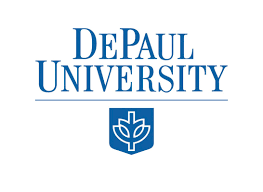
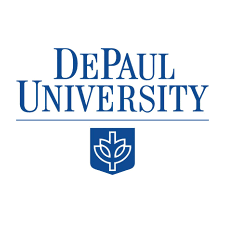
add images to aboutMe

Changed region(s): [[0.0622, 0.125, 0.9333, 0.8125]]

diff --git a/src/components/AboutMe.jsx b/src/components/AboutMe.jsx
@@ -1,4 +1,5 @@
 import React from 'react';
+import { Link } from 'react-router-dom';
 import '../css/aboutMe.css';
 import AksharDave from '../img/AksharDave.jpg';
 import MeMash from '../img/MeMash.png';
@@ -6,6 +7,12 @@ import SriYantra from '../img/SriYantra.png';
 import LAGalaxy from '../img/LAGalaxy.png';
 import Trailblazers from '../img/Trailblazers.png';
 import Aflac from '../img/Aflac.png';
+import Epicodus from '../img/Epicodus.png';
+import DePaul from '../img/depaul.png';
+import WSU from '../img/wsu.png';
+import DATA from '../img/DATAlogo.jpg';
+import CTDHS from '../img/ctdhs.jpg';
+import Editing from '../img/editing.jpg';
 
 
 function AboutMe(){
@@ -28,7 +35,7 @@ function AboutMe(){
 
       <div className='block'>
         <div className='imgWrapperA theoremWrapper'>
-          <p className='theorem'>theorem</p>
+          <a href='https://theoremadvertising.com/' className='theorem'>theorem</a>
           <div className='theoremCompanies'>
             <img className='LAGalaxyImg' src={LAGalaxy}></img>
             <img className='TrailblazersImg' src={Trailblazers}></img>
@@ -46,20 +53,25 @@ function AboutMe(){
       </div>
 
       <div className='block'>
-        <div className='imgWrapperA'>
-        <img className='diamondImg' src={AksharDave}></img>
+        <div className='imgWrapperA schoolsAttended'>
+          <img className='schoolAttended' src={DePaul}></img>
+          <img className='schoolAttended' src={Epicodus}></img>
+          <img className='schoolAttended' src={WSU}></img>
         </div>
         <h3 className='wordContent'>I was trained to program at Epicodus in Portland, Oregon. I hold a Masters in Mathematics Education from DePaul University and a BA in Philosophy from Wayne State University.</h3>
       </div>
 
       <div className='block'>
         <h3 className='wordContent'>Before getting into programming, I taught mathematics, yoga, and film editing for 8 years.</h3>
-        <div className='imgWrapperB'></div>
+        <div className='imgWrapperB schoolsTaught'>
+          <img className='schoolTaught' src={DATA}></img>
+          <img className='schoolTaught' src={CTDHS}></img>
+        </div>
       </div>
 
       <div className='block'>
         <div className='imgWrapperA'>
-        <img className='diamondImg' src={AksharDave}></img>
+          <img className='editing' src={Editing}></img>
         </div>
         <h3 className='wordContent'>Prior to teaching, I was a professional video editor in Chicago for about 7 years.</h3>
       </div>

diff --git a/src/css/aboutMe.css b/src/css/aboutMe.css
@@ -20,6 +20,12 @@
   opacity: 0.05;
 }
 
+.editing{
+  width: 100%;
+  height: 300px;
+  opacity: 0.3;
+}
+
 .imgWrapperA{
   margin-top: 5%;
   background-image: linear-gradient(to left, rgba(255,0,0,0), #262626);
@@ -30,13 +36,7 @@
   background-image: linear-gradient(to right, rgba(255,0,0,0), #262626);
 }
 
-.wordContent{
-  /* margin-top: 20%; */
-  display: flex;
-  justify-content: center;
-  align-items: center;
-  
-}
+
 
 .mathImg{
   /* background-image: url('../img/SriYantra.png'); */
@@ -57,35 +57,88 @@
   float: left;
 }
 
+.schoolsAttended{
+  margin-top: 50px;
+  display: grid;
+  grid-template-columns: 1fr 1fr 1fr;
+  grid-template-rows: auto;
+  filter: saturate(.2);
+  /* opacity: 1; */
+  text-align: center;
+  align-items: center;
+}
+
+.schoolAttended{
+  width: 100%;
+  height: auto;
+  opacity: 0.5;
+}
+
+.schoolsTaught{
+  margin-top: 50px;
+  display: grid;
+  grid-template-columns: 1fr 1fr;
+  grid-template-rows: auto;
+  filter: saturate(.2);
+  /* opacity: 1; */
+  text-align: center;
+  align-items: center;
+}
+
+.schoolTaught{
+  width: 100%;
+  height: auto;
+  opacity: 0.5;
+}
+
 .theorem{
   color: #262626;
   font-family: "Source Sans Pro",Sans-serif;
-  font-size: 48px;
+  font-size: 56px;
   font-weight: 900;
   line-height: 36px;
   letter-spacing: -1.6px;
   opacity: 0.7;
 }
 
+.theorem:hover {
+  text-decoration: none;
+  color: rgb(151, 145, 167);
+}
+
 .theoremCompanies{
+  margin-top: 50px;
   display: grid;
   grid-template-columns: 1fr 1fr 1fr;
   grid-template-rows: auto;
-  filter: saturate(0);
+  filter: saturate(.2);
   opacity: 0.7;
   text-align: center;
   align-items: center;
-  
 }
 
 .theoremCompanies img{
-  width: 30%;
-  position: relative;
-  text-align: center;
-  align-items: center;
+  width: 40%;
+  display: block;
+  margin-left: auto;
+  margin-right: auto;
+  /* width: 50%; */
+  /* position: relative; */
+  /* text-align: center; */
+  /* align-items: center; */
   
 }
 
 .theoremWrapper{
-  padding: 10px;
+  padding: 20px;
+  padding-top: 20px;
+
+}
+
+.wordContent{
+  /* margin-top: 20%; */
+  display: flex;
+  justify-content: center;
+  align-items: center;
+  padding: 14px;
 }

diff --git a/README.md b/README.md
@@ -1,4 +1,4 @@
-# _myForest_
+# _jfPortfolio_
 
 
 #### _This is an application for tracking personal data in a visual way._
